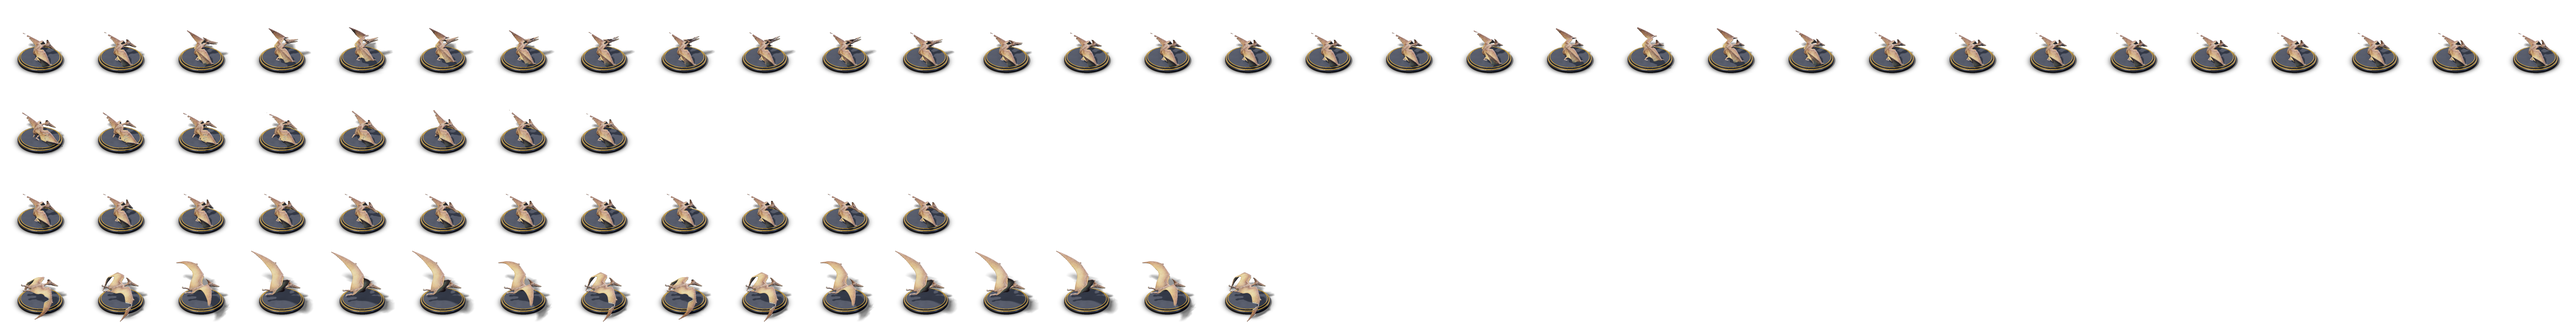
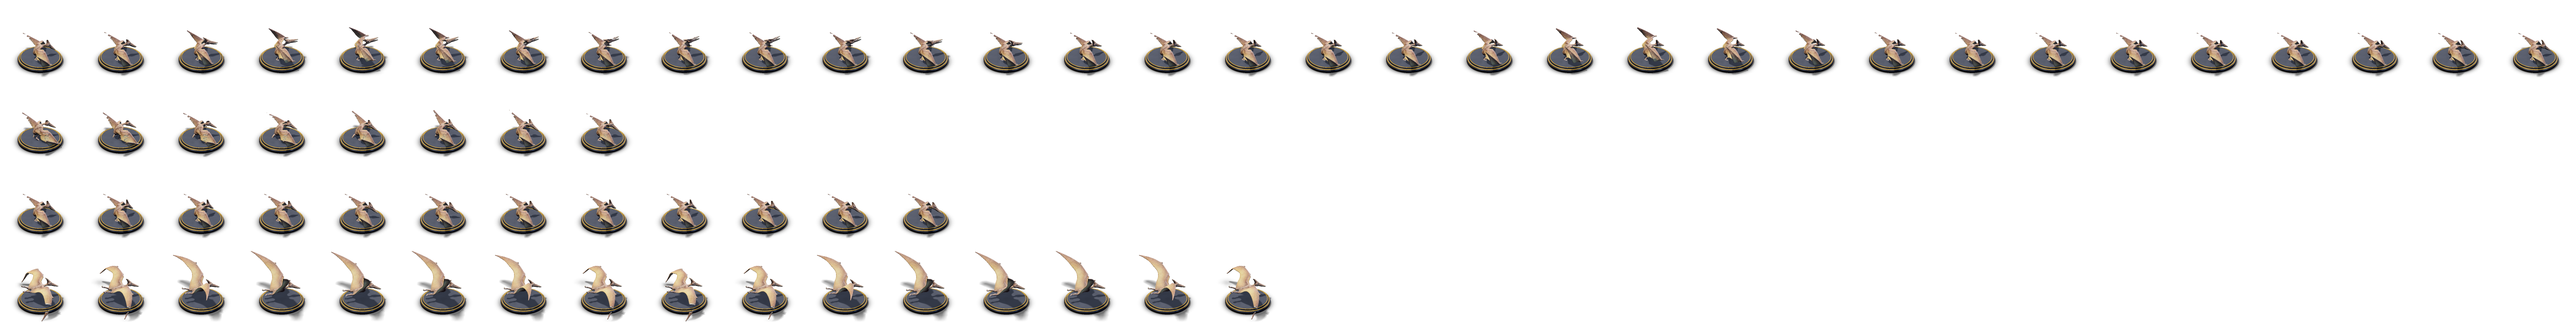
Pteranodon: the win beat no longer starts from 4.4 s of the clip, where the far wing went through the base (hidden, it cast a shadow matching no visible wing: the shadow looked out of step); its key light comes from higher up (render.py: a scene may set its own key light) so that in flight the shado

diff --git a/app/tools/sprites/render.py b/app/tools/sprites/render.py
@@ -485,6 +485,8 @@ def render(scene, size=192, ss=2, view=2.0, center=(0.0, 0.62, 0.0), ground=True
     final pixels wide) on the silhouette, on jumps in depth, on sharp creases
     and where the flat colour changes (use flat materials)."""
     n = size * ss
+    key = getattr(scene, "key", None)
+    key = KEY if key is None else norm(vec(*key))    # a scene may move its key light (the flying pteranodon: from above)
     el = math.radians(ELEVATION)
     fwd = vec(0, -math.sin(el), -math.cos(el))      # looking down, towards −z
     right = vec(1, 0, 0)
@@ -565,7 +567,7 @@ def render(scene, size=192, ss=2, view=2.0, center=(0.0, 0.62, 0.0), ground=True
         sh = torch.ones_like(met)
         ts = torch.full_like(met, 0.02)
         for _ in range(48):
-            dd = scene.casters().dist(p + nrm * 0.004 + KEY * ts[:, None])
+            dd = scene.casters().dist(p + nrm * 0.004 + key * ts[:, None])
             sh = torch.minimum(sh, 10.0 * dd / ts)
             ts = ts + dd.clamp(0.01, 0.15)
         sh = sh.clamp(0, 1)
@@ -584,10 +586,10 @@ def render(scene, size=192, ss=2, view=2.0, center=(0.0, 0.62, 0.0), ground=True
             gbuf[hi] = gid[ids]
         if toon:
             ndv_ = (nrm * V).sum(-1).clamp(0, 1)
-            lit = (nrm @ KEY).clamp_min(0) * sh
+            lit = (nrm @ key).clamp_min(0) * sh
             band = torch.where(lit > 0.45, torch.full_like(lit, 1.0), torch.where(lit > 0.1, torch.full_like(lit, 0.66), torch.full_like(lit, 0.42)))
             rimb = ((1 - ndv_) > 0.7).float() * ((nrm @ RIM) > -0.3).float() * 0.3
-            Hk = norm(KEY + V)
+            Hk = norm(key + V)
             hl = (((nrm * Hk).sum(-1).clamp_min(0)) > (0.9 + 0.09 * (1 - rou))).float() * (1 - rou) * 1.2
             Rt = norm(-V - 2 * ((-V * nrm).sum(-1, keepdim=True)) * nrm)
             metal_band = torch.where(Rt[:, 1] > 0.25, torch.full_like(lit, 1.25), torch.full_like(lit, 0.45))
@@ -596,7 +598,7 @@ def render(scene, size=192, ss=2, view=2.0, center=(0.0, 0.62, 0.0), ground=True
             color[hi] = torch.nan_to_num(col, nan=0.0)
             emis[hi] = emi
         else:
-            for L, LC, s_ in ((KEY, KEY_COL, sh), (FILL, FILL_COL, None), (RIM, RIM_COL, None)):
+            for L, LC, s_ in ((key, KEY_COL, sh), (FILL, FILL_COL, None), (RIM, RIM_COL, None)):
                 ndl = (nrm @ L)
                 wrap = (ndl + sss) / (1 + sss)
                 dif = wrap.clamp_min(0)
@@ -662,7 +664,7 @@ def render(scene, size=192, ss=2, view=2.0, center=(0.0, 0.62, 0.0), ground=True
                 m = gid == i
                 if m.any() and part.mat.glass:
                     tint[m] = part.mat.albedo
-            Hk = norm(KEY + Vg)
+            Hk = norm(key + Vg)
             spec = ((ng * Hk).sum(-1).clamp_min(0) ** 300) * 6.0
             refl = env(Rg) * fr[:, None] * 1.1 + KEY_COL * spec[:, None]
             behind = color[gi] * tint * (1 - fr[:, None])
@@ -719,7 +721,7 @@ def render(scene, size=192, ss=2, view=2.0, center=(0.0, 0.62, 0.0), ground=True
                 sh = torch.ones(sel.shape[0], device=DEV)
                 ts = torch.full_like(sh, 0.02)
                 for _ in range(40):
-                    q = scene.casters().dist(pg + KEY * ts[:, None])
+                    q = scene.casters().dist(pg + key * ts[:, None])
                     sh = torch.minimum(sh, 6.0 * q / ts)
                     ts = ts + q.clamp(0.01, 0.2)
                 sh = sh.clamp(0, 1)

diff --git a/app/tools/sprites/dinos.py b/app/tools/sprites/dinos.py
@@ -392,6 +392,7 @@ def dilophosaurus(anim, t, side):
 PTERA_GLTF = os.path.join(os.path.dirname(__file__), "models", "pteranodon", "scene.gltf")
 PTERA_SCALE = 2.4          # glTF metres → figure units (× SCALE["nnue193"]); the flight must fit the frame
 PTERA_YAW = YAW + 0.8      # nearly in profile: the crest and the long beak read best
+PTERA_KEY = (-0.25, 1.0, 0.12)   # its key light from higher up: in flight its shadow falls under it, not beside
 PTERA_CELL = 0.004         # the SDF grid's cell; membranes get 0.9 cell of thickness
 _ptera = None
 
@@ -417,7 +418,8 @@ def pteranodon(anim, t, side):
     elif anim == "blocked":
         v = m.pose("standing", 2.4, turn={m.node("neck_02"): ((0, 1, 0), 0.45 * math.sin(TAU * 2 * t))})
     else:                                  # win: in flight, the body ~0.25 above the base
-        v = m.pose("flying", 4.4 + 0.6 * (1 - math.cos(TAU * 2 * t)) / 2)    # two wing beats, down → up → down
+        v = m.pose("flying", 4.55 + 0.45 * (1 - math.cos(TAU * 2 * t)) / 2)  # two wing beats, down → up → down (from 4.4 s
+        # the far wing went through the base: hidden, it still cast a shadow that matched no visible wing)
         lift = -0.30
     v = v.copy()
     v[:, 1] += lift
@@ -429,6 +431,7 @@ def pteranodon(anim, t, side):
     def tone(pl, pw, n):                   # the texture under the figurines' strong key light; its darkest
         return {"albedo": colour(pl).clamp(min=0) ** 0.8 * 0.32}    # parts (head, beak) lifted: they fall in the folded wing's shadow
     sc.add(sdf, Mat("#806040", rough=0.6, sss=0.2, pattern=tone))
+    sc.key = PTERA_KEY
     return sc
 
 
